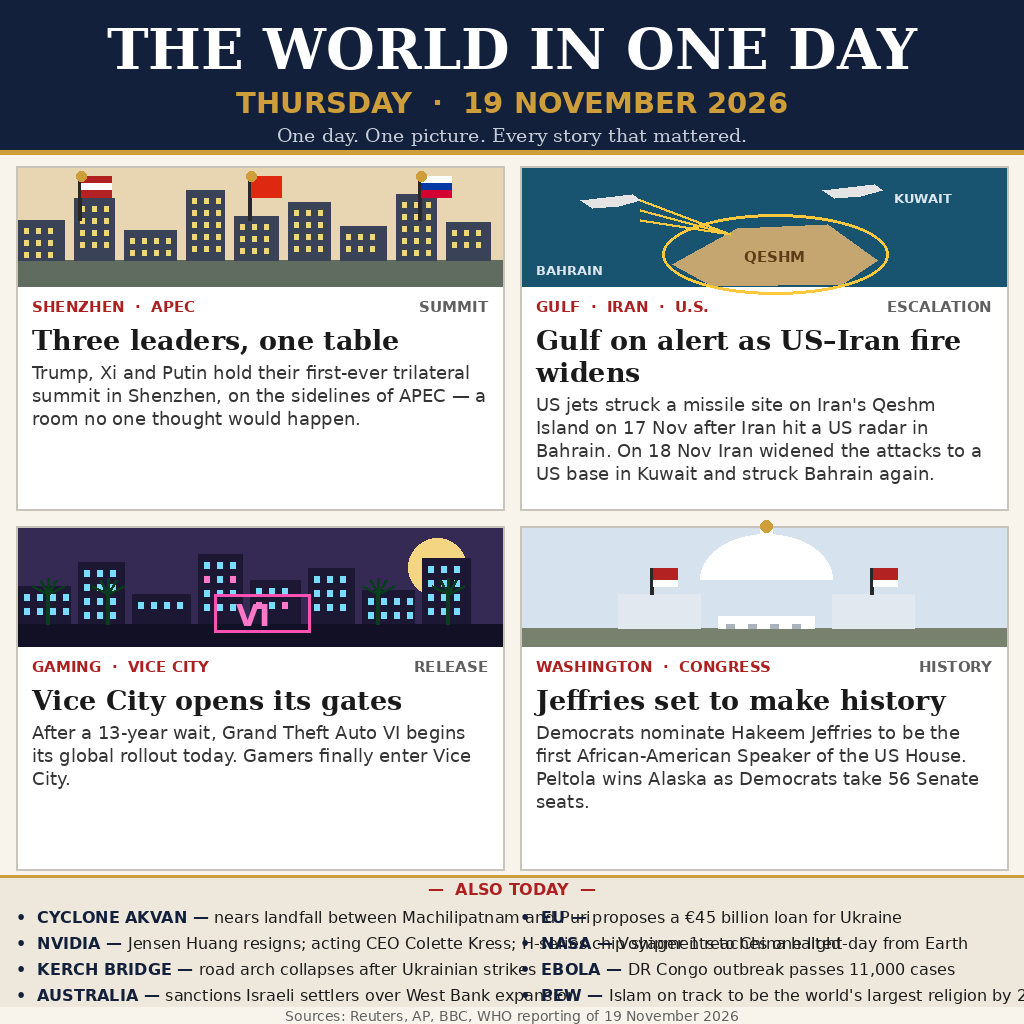
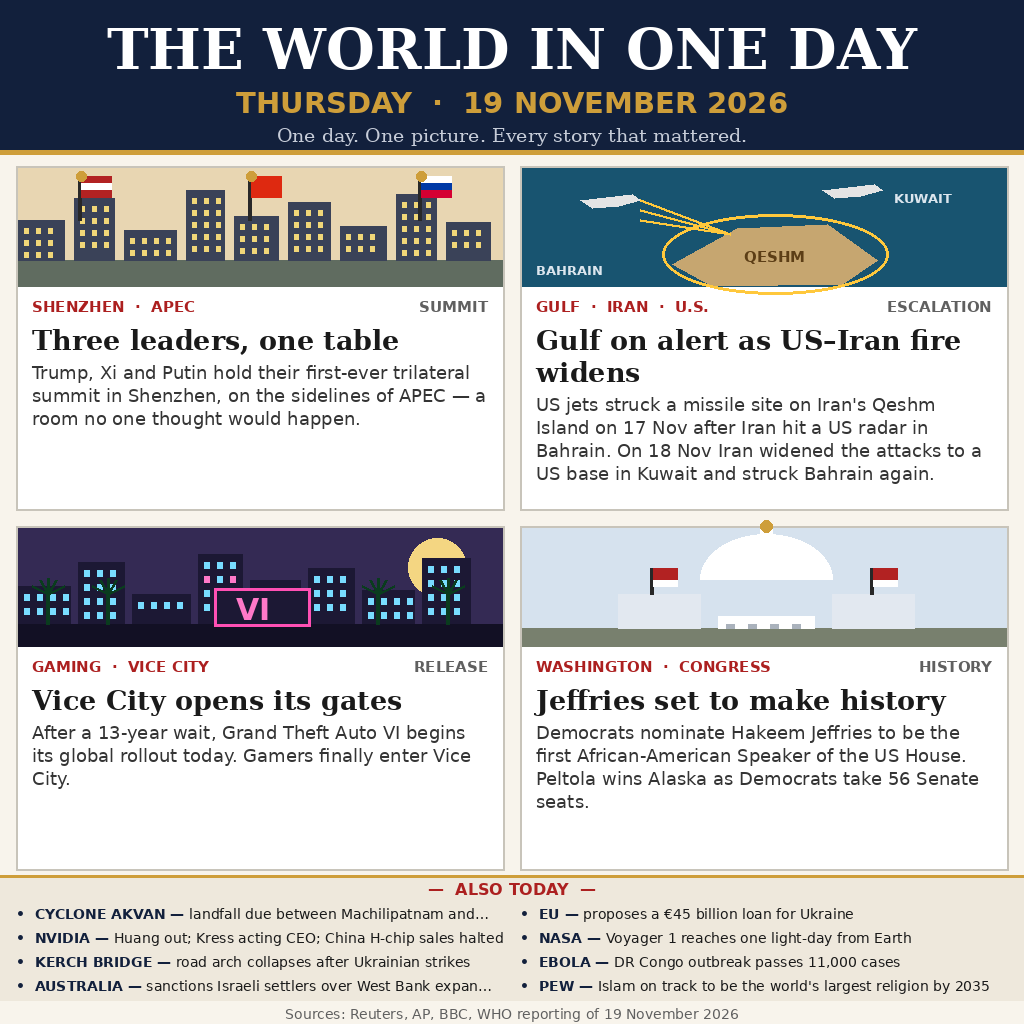
Fix strip overflow: measured one-line items with ellipsis guard, clear sources band, filled VI sign

Changed region(s): [[0.0312, 0.875, 1.0, 1.0], [0.2188, 0.5625, 0.3125, 0.625]]

diff --git a/generate.py b/generate.py
@@ -10,6 +10,11 @@ Layout, top to bottom:
     vector illustration at the top
   * a strip of eight shorter items in two columns
   * a sources line along the bottom edge
+
+Revision 2: the short-items strip is shortened to one measured line
+per item (ellipsis guard so nothing can run into the other column
+or off the page), the sources line gets its own clear band, and the
+Vice City "VI" sign is filled so the letters stay legible.
 """
 
 from PIL import Image, ImageDraw, ImageFont
@@ -184,9 +189,9 @@ def art_vicecity(x, y, w, h):
                               else (120, 220, 255))
     pen.rectangle([x, y + h - 22, x + w, y + h], fill=(18, 16, 36))
     # neon "VI" sign
-    pen.rectangle([x + 196, y + 66, x + 292, y + 104], outline=(255, 80, 180),
-                  width=3)
-    pen.text((x + 218, y + 70), "VI", font=load(SANS_BOLD, 30),
+    pen.rectangle([x + 196, y + 60, x + 292, y + 98], fill=(28, 24, 52),
+                  outline=(255, 80, 180), width=3)
+    pen.text((x + 218, y + 64), "VI", font=load(SANS_BOLD, 30),
              fill=(255, 120, 200))
     # palm silhouettes along the boulevard
     for px in (30, 90, 360, 430):
@@ -252,10 +257,9 @@ for idx, story in enumerate(STORIES):
 
 # ---------------------------------------------------------------- short items
 STRIP = [
-    ("CYCLONE AKVAN", "nears landfall between Machilipatnam and Puri"),
+    ("CYCLONE AKVAN", "landfall due between Machilipatnam and Puri"),
     ("EU", "proposes a €45 billion loan for Ukraine"),
-    ("NVIDIA", "Jensen Huang resigns; acting CEO Colette Kress; "
-               "H-series chip shipments to China halted"),
+    ("NVIDIA", "Huang out; Kress acting CEO; China H-chip sales halted"),
     ("NASA", "Voyager 1 reaches one light-day from Earth"),
     ("KERCH BRIDGE", "road arch collapses after Ukrainian strikes"),
     ("EBOLA", "DR Congo outbreak passes 11,000 cases"),
@@ -264,21 +268,25 @@ STRIP = [
 ]
 
 strip_y = 886
-pen.rectangle([0, strip_y - 10, PAGE, 1006], fill=(238, 232, 220))
+pen.rectangle([0, strip_y - 10, PAGE, 1000], fill=(238, 232, 220))
 pen.line([0, strip_y - 10, PAGE, strip_y - 10], fill=GOLD, width=3)
 centred(pen, PAGE // 2, strip_y - 6, "—  ALSO TODAY  —",
         load(SANS_BOLD, 16), CRIMSON)
-col_w = 496
 for i, (lead, rest) in enumerate(STRIP):
     cx = 16 if i % 2 == 0 else 520
-    cy = strip_y + 22 + (i // 2) * 26
-    pen.text((cx, cy), "•  " + lead + " — ", font=load(SANS_BOLD, 16),
-             fill=NAVY)
-    lead_w = pen.textlength("•  " + lead + " — ", font=load(SANS_BOLD, 16))
-    pen.text((cx + lead_w, cy), rest, font=load(SANS, 16), fill=INK)
+    cy = strip_y + 20 + (i // 2) * 24
+    # One line per item: shrink the tail with an ellipsis rather than
+    # ever letting it run into the other column or off the page.
+    head = "•  " + lead + " — "
+    head_fnt, rest_fnt = load(SANS_BOLD, 14), load(SANS, 14)
+    head_w = pen.textlength(head, font=head_fnt)
+    while rest and pen.textlength(rest, font=rest_fnt) > 496 - 8 - head_w:
+        rest = rest[:-4].rstrip() + "…"
+    pen.text((cx, cy), head, font=head_fnt, fill=NAVY)
+    pen.text((cx + head_w, cy), rest, font=rest_fnt, fill=INK)
 
 # ---------------------------------------------------------------- sources
-centred(pen, PAGE // 2, 1008,
+centred(pen, PAGE // 2, 1006,
         "Sources: Reuters, AP, BBC, WHO reporting of 19 November 2026",
         load(SANS, 14), MUTED)
 
